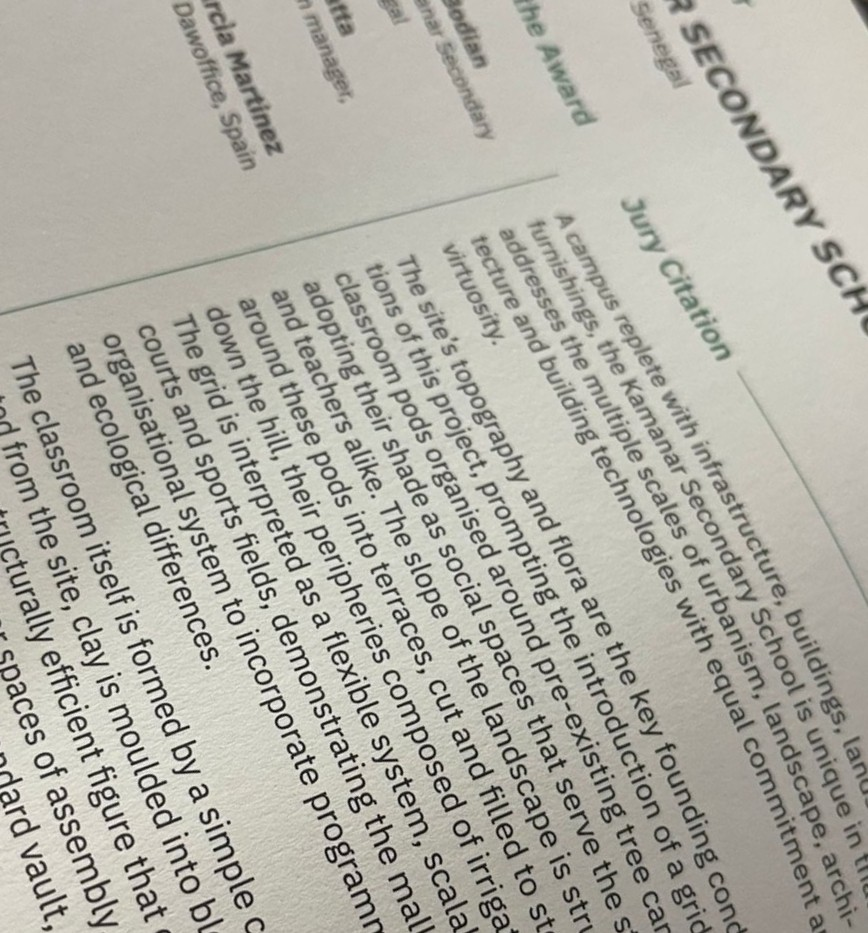
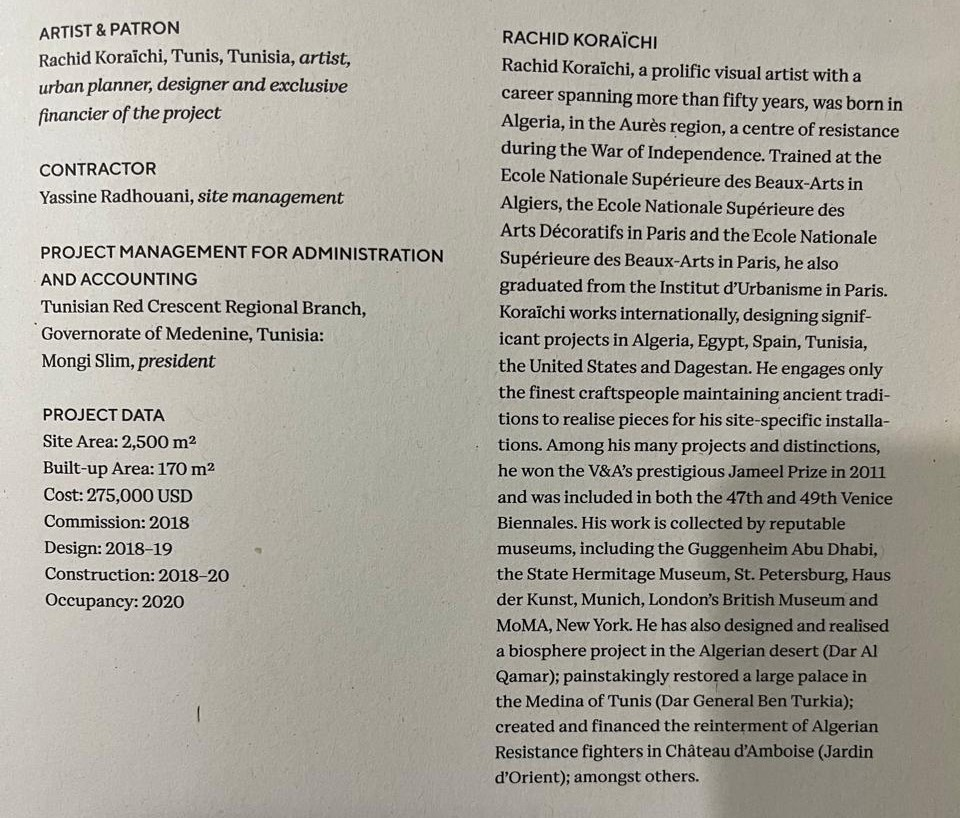
Add Mohammad Mousavi to portraits and update book images layout

diff --git a/app/jardin-d-afrique/JardinClient.tsx b/app/jardin-d-afrique/JardinClient.tsx
@@ -203,8 +203,9 @@ export default function JardinDAfrique() {
     { src: "/ya.jpeg", name: "Andra Matin" },
     { src: "/yy.jpeg", name: "Yahya Hussein Abdallah" },
     { src: "/ydd.jpeg", name: "David García Martínez" },
+    { src: "/ma.jpeg", name: "Mohammad Mousavi" },
   ];
-  const bookImages = ["/bookimage.jpeg", "/cover.jpeg", "/zoom.jpeg"];
+  const bookImages = ["/zoom.jpeg", "/cover.jpeg", "/zoom.jpeg"];
 
   if (!mounted) {
     return null;
@@ -349,7 +350,7 @@ export default function JardinDAfrique() {
           className="object-cover object-center opacity-5"
         />
         <div className="relative max-w-6xl mx-auto">
-          <div className="grid grid-cols-2 md:grid-cols-3 lg:grid-cols-5 gap-4">
+          <div className="grid grid-cols-2 md:grid-cols-3 lg:grid-cols-6 gap-4">
             {portraitImages.map((image, idx) => (
               <motion.div
                 key={idx}
